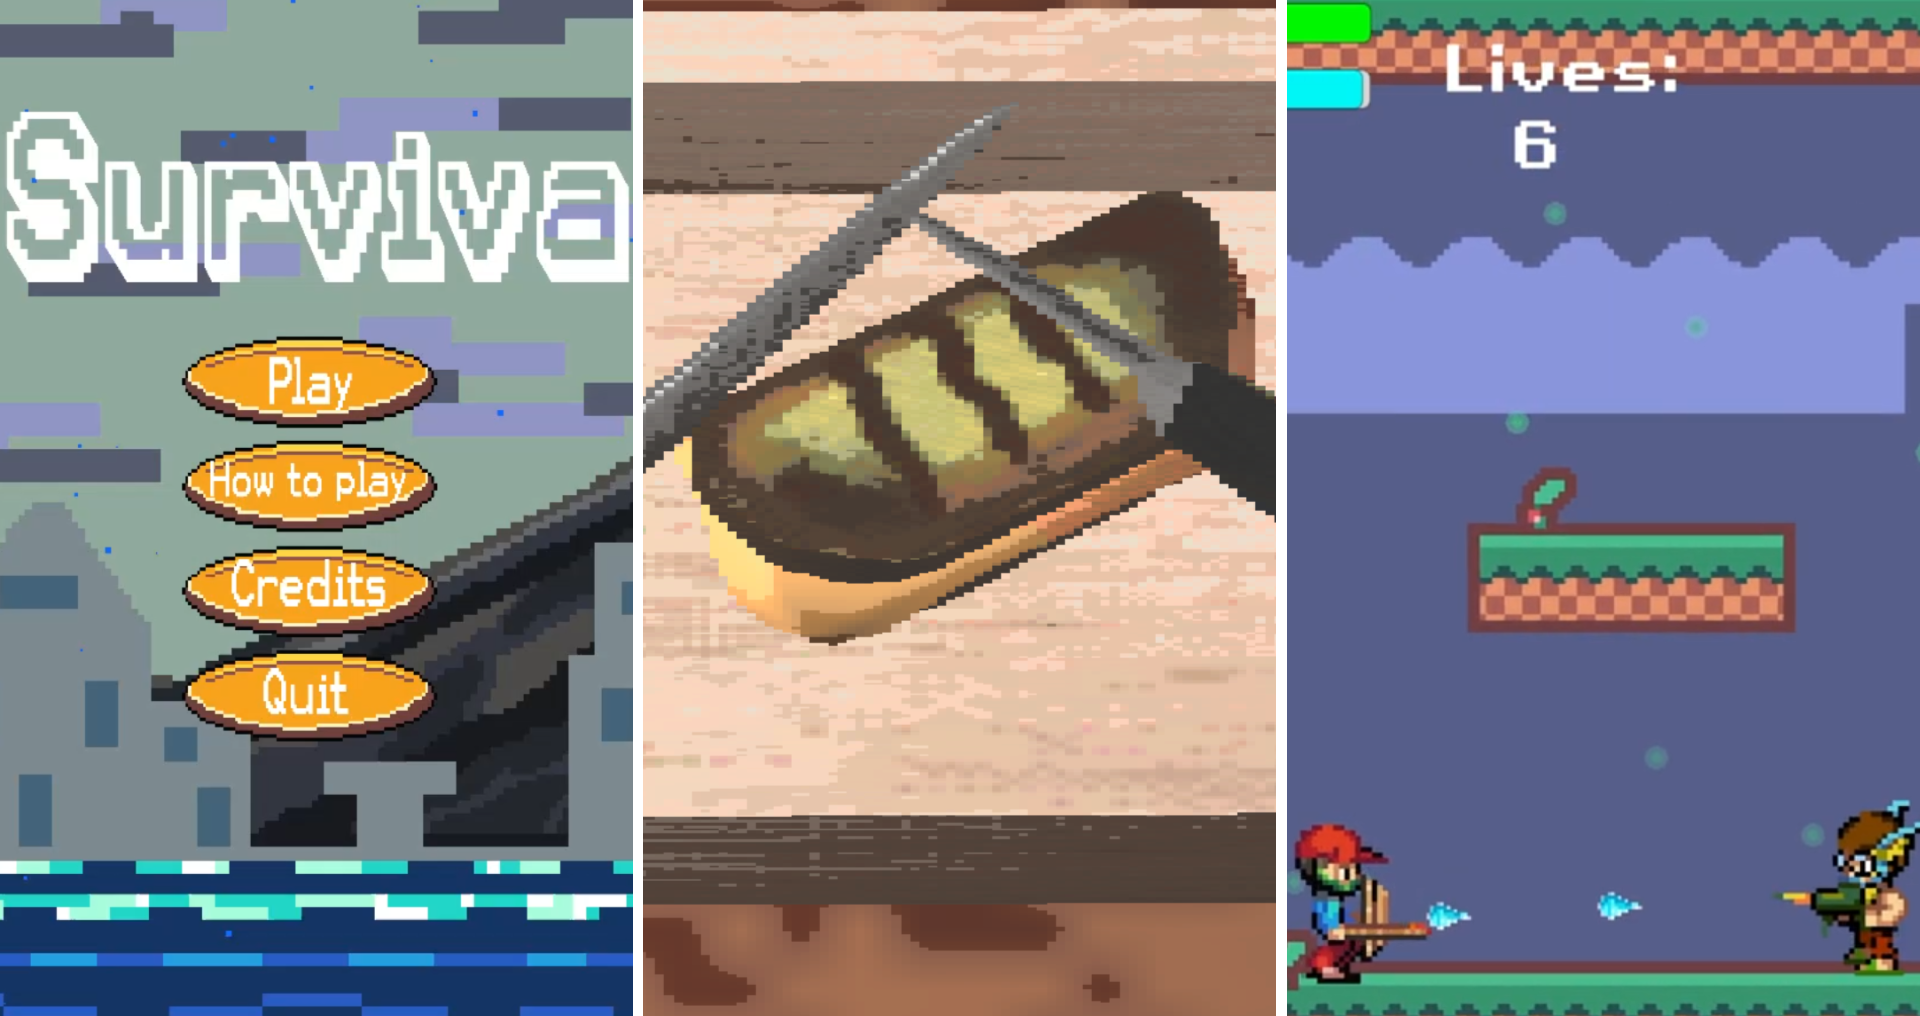
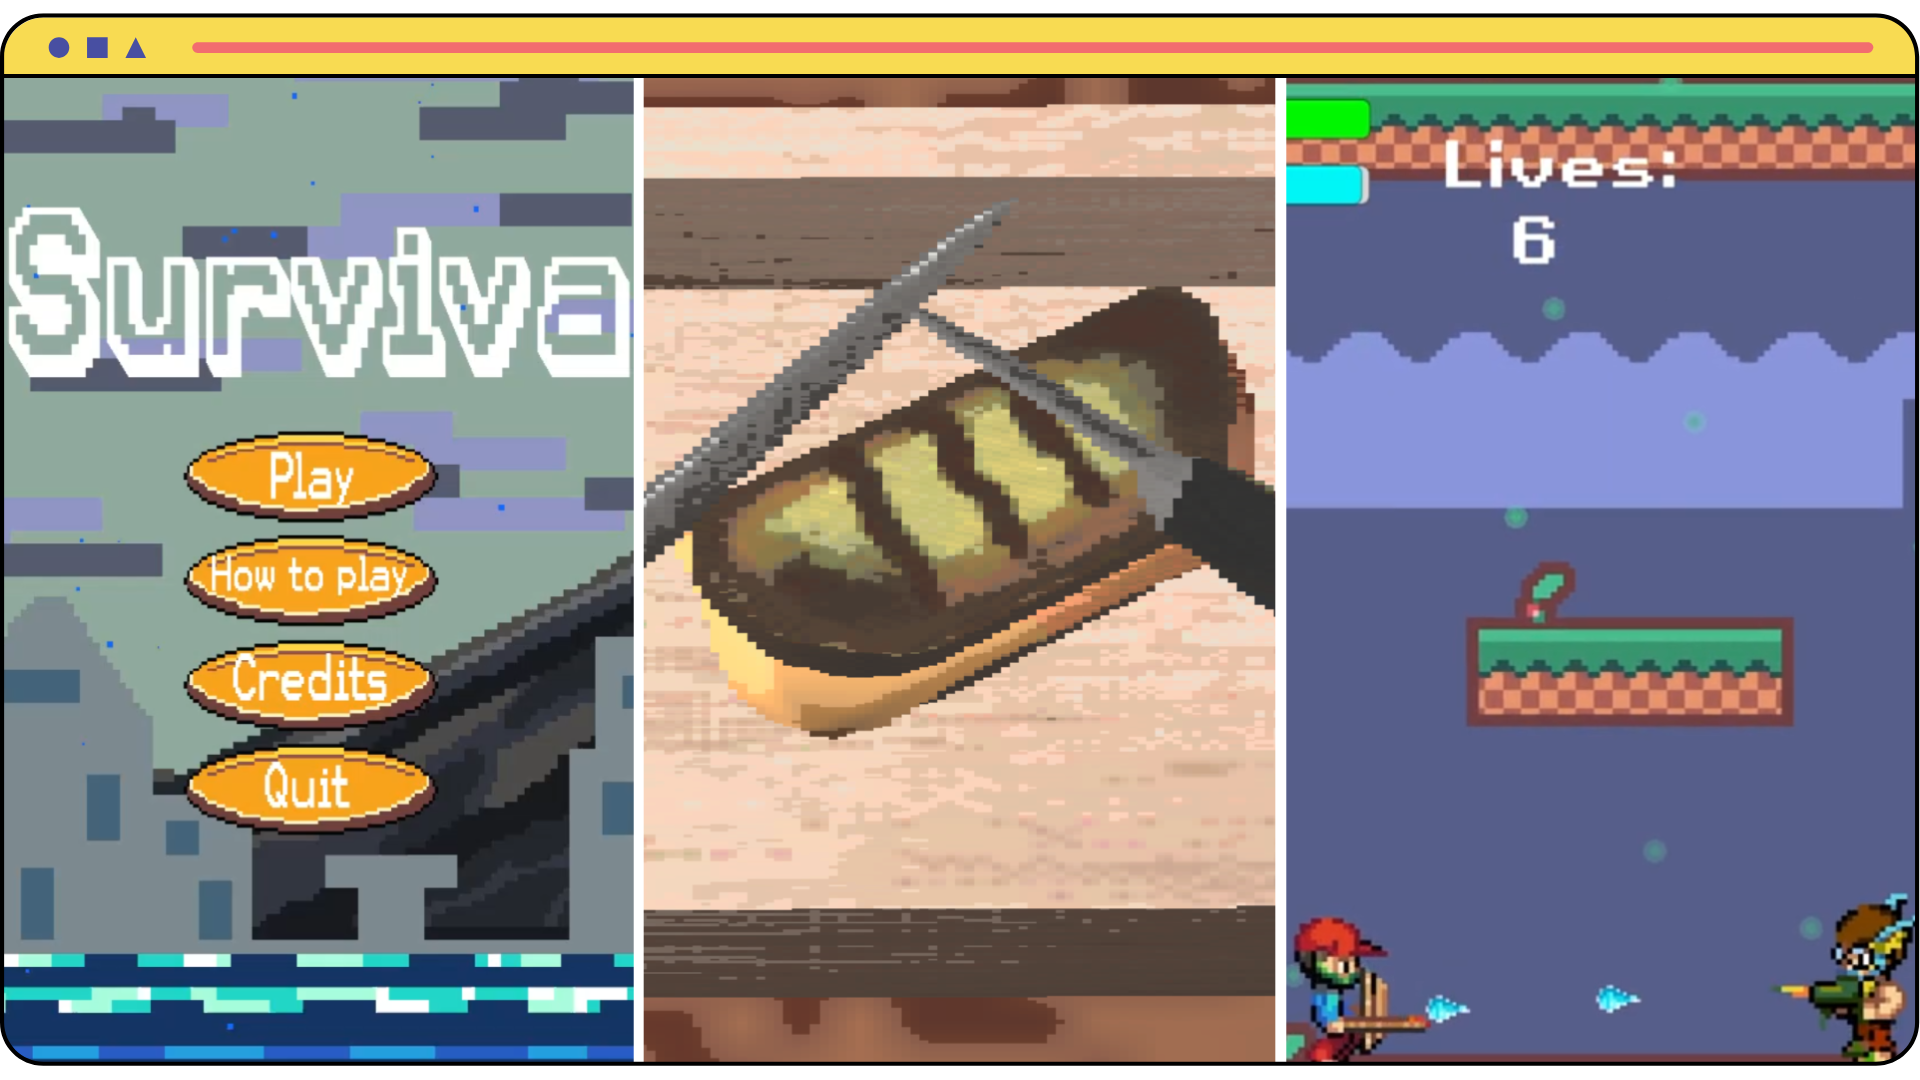
11/6/2025 Update
Added different font styles to the website

diff --git a/index.html b/index.html
@@ -12,6 +12,12 @@
     <link href="https://cdn.jsdelivr.net/npm/bootstrap-icons/font/bootstrap-icons.css" rel="stylesheet">
 
     <link rel="stylesheet" href="./style.css">
+
+    <link rel="preconnect" href="https://fonts.googleapis.com">
+    <link rel="preconnect" href="https://fonts.gstatic.com" crossorigin>
+    <link
+        href="https://fonts.googleapis.com/css2?family=Caveat:wght@400..700&family=Geo:ital@0;1&family=Libre+Baskerville:ital,wght@0,400;0,700;1,400&family=Roboto+Slab:wght@100..900&family=VT323&display=swap"
+        rel="stylesheet">
 </head>
 
 <body>
@@ -22,7 +28,7 @@
                     class="img-fluid border-bottom rounded-4 pink-border mb-4" alt="Name logo" width="300" height="200"
                     loading="lazy"> </div>
             <div class="col-lg-6 mx-auto">
-                <p class="lead mb-4 fw-bold text_color">
+                <p class="lead mb-4 fw-bold text_color portion_title">
                     Tenacious developer with a passion for programming, numbers and creativity.
                 </p>
                 <div class="overflow-hidden" style="max-height: 30vh;">
@@ -34,14 +40,14 @@
     <div class="hero hero-2">
         <div class="px-4 py-5 my-0 text-center"> <img class="d-block mx-auto mb-4 profile"
                 src="./assets/images/User.jpg" alt="Farid Sawaqed profile picture" width="150" height="150">
-            <h1 class="display-5 fw-bold bold_color">Glad to meet you!</h1>
+            <h1 class="display-5 fw-bold bold_color portion_title">Glad to meet you!</h1>
             <div class="col-lg-6 mx-auto">
-                <p class="lead mb-4 text_color">
+                <p class="lead mb-4 text_color portion_text">
                     My name is Farid Sawaqed, but you can call me Fred. <br />
                     <hr />
-                <p class="lead mb-4 text_color">
+                <p class="lead mb-4 text_color portion_subtitle header_title_adjust">
                     I love the art of creation, whether its:
-                <ul class="no-bullets lead mb-4 text_color">
+                <ul class="no-bullets mb-4 text_color portion_text">
                     <li>Web Development</li>
                     <li>Game Development and Game Design</li>
                     <li>Illustration</li>
@@ -56,7 +62,7 @@
 
     <!-- Skills and Experience -->
     <div class="container pb-5">
-        <div class="section-titles">
+        <div class="portion_title section-titles">
             <h2 class="display-5 fw-bold bold_color text-center py-4 section-links active_part"
                 onclick="opensection('carouselExampleCaptions')">Skills</h2>
             <h2 class="display-5 fw-bold bold_color text-center py-4 section-links" onclick="opensection('experience')">
@@ -78,26 +84,25 @@
                 <div class="carousel-item active img-fluid">
                     <img src="./assets/images/game_development_work.png" class="d-block w-100"
                         alt="Presentation slides of game project">
-                    <div class="carousel-caption d-md-block carousel-text-2">
+                    <div class="carousel-caption d-md-block carousel-text-2 portion_text">
                         <h3>Game Development</h3>
-                        <p>Developing 2D pixelated games with Unity and Godot,
-                            and crafting immersive experiences using Unreal Engine</p>
+                        <p>Crafting immersive experiences using Unreal Engine, Unity,
+                            and Godot</p>
                     </div>
                 </div>
                 <div class="carousel-item">
                     <img src="./assets/images/python_work.png" class="d-block w-100"
                         alt="Image of game content, knife cutting grilled cheese sandwich">
-                    <div class="carousel-caption d-md-block carousel-text-2">
+                    <div class="carousel-caption d-md-block carousel-text-2 portion_text">
                         <h3>Python programming</h3>
-                        <p>Created a range of functional projects using Python,
-                            from simple games to real world applications like
-                            an Emotion Recognition Software</p>
+                        <p>Built diverse Python projects ranging from games to
+                            Emotion Recognition Software.</p>
                     </div>
                 </div>
                 <div class="carousel-item">
                     <img src="./assets/images/web_development_work.png" class="d-block w-100"
                         alt="Starting main menu of the game">
-                    <div class="carousel-caption d-md-block carousel-text-2">
+                    <div class="carousel-caption d-md-block carousel-text-2 portion_text">
                         <h3>Web Development</h3>
                         <p>Bringing ideas to life on the web through HTML and CSS</p>
                     </div>
@@ -116,25 +121,28 @@
         </div>
 
         <ul id="experience" class="list-group info-contents">
-            <li class="list-group-item list-group-item-danger">Education</li>
+            <li class="list-group-item list-group-item-danger portion_text">Education</li>
             <ul>
-                <li class="list-group-item list-group-item-primary">Montclair State University | Computer Science </li>
+                <li class="list-group-item list-group-item-primary portion_text">Montclair State University | Computer
+                    Science </li>
                 <ul>
-                    <li class="list-group-item list-group-item-success">
+                    <li class="list-group-item list-group-item-success portion_text">
                         M.A. <br>
                         Graduated: May 2025 <br>
                         3.6 </li>
                 </ul>
-                <li class="list-group-item list-group-item-primary">Montclair State University | Game Development </li>
+                <li class="list-group-item list-group-item-primary portion_text">Montclair State University | Game
+                    Development </li>
                 <ul>
-                    <li class="list-group-item list-group-item-success">
+                    <li class="list-group-item list-group-item-success portion_text">
                         CERT <br>
                         Graduated: May 2024 <br>
                         4.0 </li>
                 </ul>
-                <li class="list-group-item list-group-item-primary">Montclair State University | Mathematics </li>
+                <li class="list-group-item list-group-item-primary portion_text">Montclair State University |
+                    Mathematics </li>
                 <ul>
-                    <li class="list-group-item list-group-item-success">
+                    <li class="list-group-item list-group-item-success portion_text">
                         B.A. <br>
                         Graduated: May 2021 <br>
                         3.4 <br>
@@ -144,47 +152,49 @@
 
             <hr />
 
-            <li class="list-group-item list-group-item-danger">Experience</li>
+            <li class="list-group-item list-group-item-danger portion_text">Experience</li>
             <ul>
-                <li class="list-group-item list-group-item-primary">Newark School of Data Science & Information
+                <li class="list-group-item list-group-item-primary portion_text">Newark School of Data Science &
+                    Information
                     Technology</li>
                 <ul>
-                    <li class="list-group-item list-group-item-success">Per Diem Teacher <br> 10/6/2025 - Current</li>
+                    <li class="list-group-item list-group-item-success portion_text">Per Diem Teacher <br> 10/6/2025 -
+                        Current</li>
 
                     <ul>
-                        <li class="list-group-item list-group-item-light">
+                        <li class="list-group-item list-group-item-light portion_text">
                             Provide classroom insturctionsfor grades 9 to 12 in various subjects as needed.
                         </li>
-                        <li class="list-group-item list-group-item-light">
+                        <li class="list-group-item list-group-item-light portion_text">
                             Maintain a positive and organized learning environment by following lesson plans
                             and adapting to diverse classroom settings.
                         </li>
-                        <li class="list-group-item list-group-item-light">
+                        <li class="list-group-item list-group-item-light portion_text">
                             Manage student behavior effectively while ensuring safety and engagement.
                         </li>
-                        <li class="list-group-item list-group-item-light">
+                        <li class="list-group-item list-group-item-light portion_text">
                             Communicate with staff and administration to support student learning.
                         </li>
                     </ul>
                 </ul>
 
-                <li class="list-group-item list-group-item-primary">Montclair State University</li>
+                <li class="list-group-item list-group-item-primary portion_text">Montclair State University</li>
                 <ul>
-                    <li class="list-group-item list-group-item-success">Graduate Research Assistant <br>
+                    <li class="list-group-item list-group-item-success portion_text">Graduate Research Assistant <br>
                         September 3, 2024 – May 5, 2025</li>
 
                     <ul>
-                        <li class="list-group-item list-group-item-light">
+                        <li class="list-group-item list-group-item-light portion_text">
                             Sponsored by The National Science Foundation
                         </li>
-                        <li class="list-group-item list-group-item-light">
+                        <li class="list-group-item list-group-item-light portion_text">
                             Research on emotion-based human-robot interaction to implement the creation
                             of an Artificially Intelligent Assistant.
                         </li>
-                        <li class="list-group-item list-group-item-light">
+                        <li class="list-group-item list-group-item-light portion_text">
                             Attend weekly lab meetings to report and discuss projects’ progresses.
                         </li>
-                        <li class="list-group-item list-group-item-light">
+                        <li class="list-group-item list-group-item-light portion_text">
                             Produce and present research outcomes through academic papers,
                             oral presentations, and posters at Montclair State University,
                             as well as at national/international conferences.
@@ -192,26 +202,27 @@
                     </ul>
                 </ul>
 
-                <li class="list-group-item list-group-item-primary">Montclair State University</li>
+                <li class="list-group-item list-group-item-primary portion_text">Montclair State University</li>
                 <ul>
-                    <li class="list-group-item list-group-item-success">Game Development Certificate Teaching Assistant
+                    <li class="list-group-item list-group-item-success portion_text">Game Development Certificate
+                        Teaching Assistant
                         <br>
                         September 5, 2023 – May 7, 2024
                     </li>
 
                     <ul>
-                        <li class="list-group-item list-group-item-light">
+                        <li class="list-group-item list-group-item-light portion_text">
                             Tutor up to 25 students a semester in Blender material including Mesh Creation,
                             Rigging and Animation, and importing to a desired game engine.
                         </li>
-                        <li class="list-group-item list-group-item-light">
+                        <li class="list-group-item list-group-item-light portion_text">
                             Evaluate students’ progress during class and help them with their specific needs.
                         </li>
-                        <li class="list-group-item list-group-item-light">
+                        <li class="list-group-item list-group-item-light portion_text">
                             Grade assignments while providing constructive feedback to students to aid in their learning
                             experience.
                         </li>
-                        <li class="list-group-item list-group-item-light">
+                        <li class="list-group-item list-group-item-light portion_text">
                             Maintain office hours where students can come and get help related to game development.
                         </li>
                     </ul>
@@ -223,13 +234,14 @@
     <!-- Projects -->
     <div class="container">
         <div id="projects" class="container col-xxl-8 px-4 py-3 info-contents">
-            <div class="project-header">
+            <div class="project-header portion_subtitle">
                 <h2>Click on gif to enter external link:</h2>
             </div>
-            <div class="row flex-lg-row-reverse align-items-center g-5 pb-5">
+            <div class="row flex-lg-row-reverse align-items-center g-5 ">
                 <div class="col-lg-6">
-                    <h3 class="display-5 fw-bold text-body-emphasis lh-1 mb-3">DnD Initiative Tracker</h3>
-                    <p class="lead">A website tool used to organize and display the turn order of players and creatures
+                    <h3 class="display-5 fw-bold text-body-emphasis lh-1 mb-3 portion_title">DnD Initiative Tracker</h3>
+                    <p class="lead portion_text">A website tool used to organize and display the turn order of players
+                        and creatures
                         during combat of a Dungeons and Dragons session, ensuring gameplay flows smoothly and fairly.
                     </p>
                 </div>
@@ -242,8 +254,10 @@
             </div>
             <div class="row flex-lg-row-reverse align-items-center g-5 py-5">
                 <div class="col-lg-6">
-                    <h3 class="display-5 fw-bold text-body-emphasis lh-1 mb-3">Kitcken Trials VR / UE-5</h3>
-                    <p class="lead">Virtual reality cooking simulation to develop young children of age the art, sklls,
+                    <h3 class="display-5 fw-bold text-body-emphasis lh-1 mb-3 portion_title">Kitcken Trials VR / UE-5
+                    </h3>
+                    <p class="lead portion_text">Virtual reality cooking simulation to develop young children of age the
+                        art, sklls,
                         and knowledge needed to prepare food safely, without entering a real hazardous kitchen.</p>
                 </div>
                 <a class="gif" href="https://youtu.be/zm6oqzt3iTA?si=zlq0D0c9vEBHhslA">
@@ -255,8 +269,10 @@
             </div>
             <div class="row flex-lg-row-reverse align-items-center g-5 py-5">
                 <div class="col-lg-6">
-                    <h3 class="display-5 fw-bold text-body-emphasis lh-1 mb-3">Water Balloon Wars / Unity</h3>
-                    <p class="lead">A sidescroller about a group of fire lovers threatening the water park with strange
+                    <h3 class="display-5 fw-bold text-body-emphasis lh-1 mb-3 portion_title">Water Balloon Wars / Unity
+                    </h3>
+                    <p class="lead portion_text">A sidescroller about a group of fire lovers threatening the water park
+                        with strange
                         green magic. Your have to defeat the Junior Fire Squad, destroy the satellites,
                         and save the water park.</p>
                 </div>
@@ -269,8 +285,10 @@
             </div>
             <div class="row flex-lg-row-reverse align-items-center g-5 py-5">
                 <div class="col-lg-6">
-                    <h3 class="display-5 fw-bold text-body-emphasis lh-1 mb-3">Ari's Survival Arc / Godot</h3>
-                    <p class="lead">Submission for the 2024 Pixel Game Jam, an endless survival game of avoiding
+                    <h3 class="display-5 fw-bold text-body-emphasis lh-1 mb-3 portion_title">Ari's Survival Arc / Godot
+                    </h3>
+                    <p class="lead portion_text">Submission for the 2024 Pixel Game Jam, an endless survival game of
+                        avoiding
                         obstacles,
                         gathering food, and collecting powerups for a top score. First godot project created in only 9
                         days.</p>
@@ -292,11 +310,11 @@
     <!-- Contact Me -->
     <div class="container">
         <div class="contact-page">
-            <h3 class="contact-text-1">Let's chat!</h3>
-            <h3 class="contact-text-2">Need a programmer for either game/web development?</h3>
-            <p class="contact-text-3">Looking forward to create something with you</p>
+            <h3 class="contact-text-1 portion_title">Let's chat!</h3>
+            <h3 class="contact-text-2 portion_title">Need a programmer for either game/web development?</h3>
+            <p class="contact-text-3 portion_text">Looking forward to create something with you</p>
         </div>
-        <div class="contact-page-buttons pt-4">
+        <div class="contact-page-buttons pt-4 portion_subtitle">
             <a href="assets/images/my_resume.pdf" download class="download-btn">MY RESUME</a>
             <a class="contact-btn" href="mailto:faridsawaqed@yahoo.com">CONTACT ME</a>
         </div>
@@ -304,7 +322,7 @@
 
     <!-- Footer -->
     <footer class="footer">
-        <ul class="nav justify-content-center mb-3 footer-items">
+        <ul class="nav justify-content-center mb-3 footer-items portion_title">
             <li class="nav-item"><a href="#" class="nav-link px-2 footer-text">Home</a></li>
             <li class="nav-item"><a href="https://www.linkedin.com/in/FaridSawaqed-06s/"
                     class="nav-link px-2 footer-text">Linkedin</a></li>
@@ -315,7 +333,7 @@
             <li class="nav-item"><a href="https://ruili728.github.io/" class="nav-link px-2 footer-text">MIAC Lab
                     Team</a></li>
         </ul>
-        <p class="text-center text-body-secondary">© 2025 Farid Sawaqed - Made with passion</p>
+        <p class="text-center text-body-secondary portion_text">© 2025 Farid Sawaqed - Made with passion</p>
     </footer>
 
     <script src="https://cdn.jsdelivr.net/npm/bootstrap@5.3.8/dist/js/bootstrap.bundle.min.js"

diff --git a/style.css b/style.css
@@ -21,6 +21,31 @@
     background-color: #59AC77;
 }
 
+.portion_title {
+    font-family: "Geo", sans-serif;
+    font-weight: 400;
+    font-style: normal;
+}
+
+.header_title_adjust {
+    font-size: 28px;
+}
+
+#projects .project-header h2 {
+    font-size: 56px;
+}
+
+.portion_subtitle {
+    font-family: "VT323", monospace;
+    font-weight: 400;
+    font-style: normal;
+}
+
+.portion_text {
+    font-family: "Libre Baskerville", serif;
+    font-style: normal;
+}
+
 .no-bullets {
     list-style-type: none;
 }
@@ -77,7 +102,6 @@
     color: #FFD5D5;
     padding-bottom: 32px;
     padding-top: 0px;
-    padding-left: 25%;
 }
 
 .contact-page-buttons {
